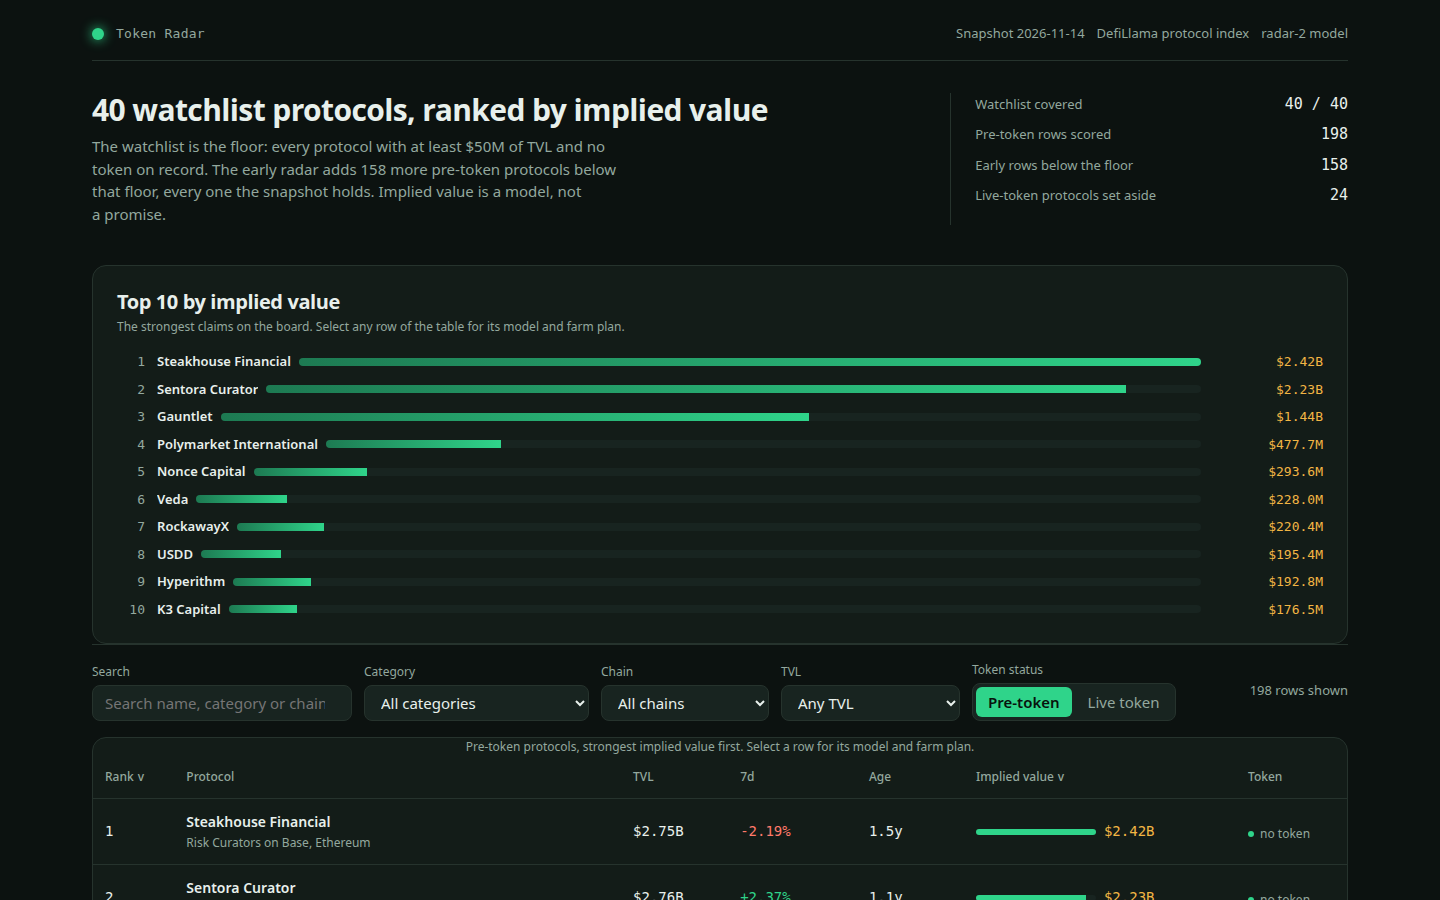
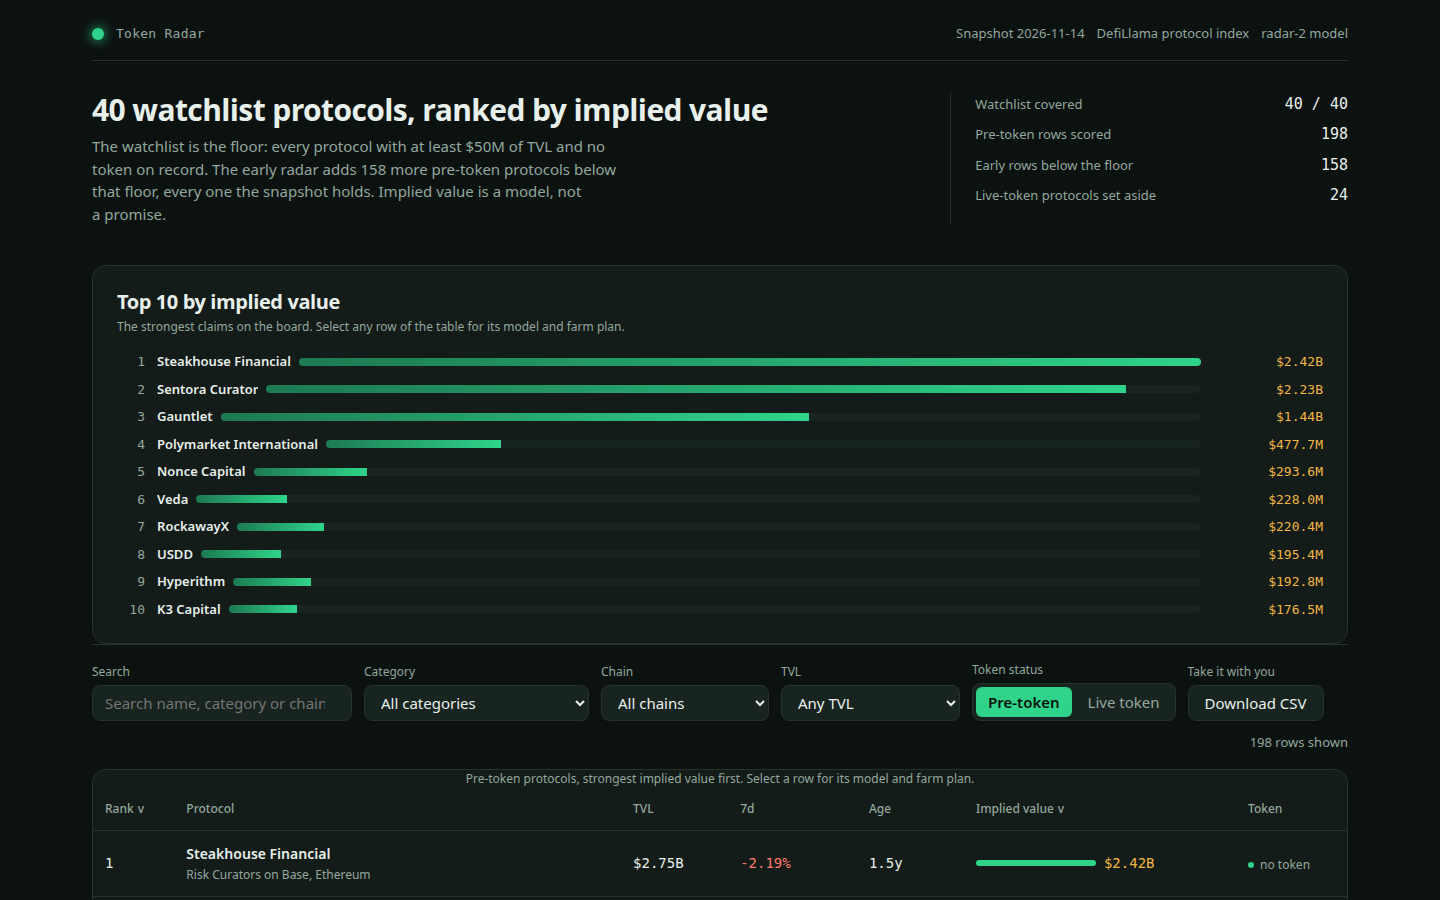
Add CSV export, verify.mjs and model docs
- Dashboard: Download CSV exports the filtered board for spreadsheet use.
- verify.mjs: one-command local verification (board gate, farm plans,
  page recompute agreement, byte-identical double run, screenshot caps).
- README: verification steps and a radar-2 model summary.

diff --git a/dashboard/app.js b/dashboard/app.js
@@ -133,6 +133,35 @@
     ].map(stepText);
   }
 
+  // Take the board out of the page: one CSV of the rows the filters show, so a reader can sort
+  // and compare it in a spreadsheet instead of trusting the page's order.
+  function csvCell(value) {
+    var text = value === null || value === undefined ? '' : String(value);
+    return /[",\n]/.test(text) ? '"' + text.replace(/"/g, '""') + '"' : text;
+  }
+  function boardCsv(list) {
+    var head = ['rank', 'protocol', 'category', 'chains', 'tvl_usd', 'change_7d', 'age_days', 'implied_value_usd', 'category_multiple', 'live_comparables', 'farm_steps'];
+    var lines = [head.join(',')];
+    list.forEach(function (r) {
+      lines.push([
+        r.rank, r.name, r.category || 'Other', (r.chains || []).join(' '), r.tvl_usd,
+        r.change_7d === null ? '' : r.change_7d, r.age_days === null ? '' : r.age_days,
+        r.implied_value_usd, r.category_multiple, r.category_comparables, farmSteps(r).length
+      ].map(csvCell).join(','));
+    });
+    return lines.join('\n') + '\n';
+  }
+  function downloadCsv() {
+    var blob = new Blob([boardCsv(sortedRows(rows()))], { type: 'text/csv;charset=utf-8' });
+    var link = document.createElement('a');
+    link.href = URL.createObjectURL(blob);
+    link.download = 'token-radar-board-' + DATA.as_of + '.csv';
+    document.body.appendChild(link);
+    link.click();
+    document.body.removeChild(link);
+    setTimeout(function () { URL.revokeObjectURL(link.href); }, 1000);
+  }
+
   function readHash() {
     var hash = window.location.hash.replace(/^#/, '');
     if (!hash) return;
@@ -250,12 +279,14 @@
     tvl.addEventListener('change', function () { state.minTvl = Number(tvl.value) || 0; writeHash(); render(); });
     var pre = el('button', { type: 'button', 'aria-pressed': state.tab === 'pre-token' ? 'true' : 'false', text: 'Pre-token', onclick: function () { state.tab = 'pre-token'; render(); } });
     var live = el('button', { type: 'button', 'aria-pressed': state.tab === 'live' ? 'true' : 'false', text: 'Live token', onclick: function () { state.tab = 'live'; render(); } });
+    var csv = el('button', { class: 'button', type: 'button', text: 'Download CSV', onclick: function () { downloadCsv(); } });
     return el('div', { class: 'controls' },
       el('div', { class: 'field' }, el('label', { for: 'q', text: 'Search' }), search),
       el('div', { class: 'field' }, el('label', { for: 'category', text: 'Category' }), cat),
       el('div', { class: 'field' }, el('label', { for: 'chain', text: 'Chain' }), chain),
       el('div', { class: 'field' }, el('label', { for: 'tvl', text: 'TVL' }), tvl),
       el('div', { class: 'field' }, el('span', { class: 'sub', text: 'Token status' }), el('div', { class: 'tabs' }, pre, live)),
+      el('div', { class: 'field' }, el('span', { class: 'sub', text: 'Take it with you' }), csv),
       el('span', { class: 'count', text: state.tab === 'pre-token' ? rows().length + ' rows shown' : DATA.live.length + ' live-token protocols' })
     );
   }

diff --git a/README.md b/README.md
@@ -16,6 +16,19 @@ mkdir -p out && MAKEFUN_OUTPUT_DIR=out node main.ts --input <snapshot.json>
 
 Node 22 or later, standard library only, no install. The program writes `out/board.json`, `out/data.js`, `out/dashboard/`, `out/screenshots/` and `out/dossier.json`.
 
+## Verify it
+
+```sh
+node verify.mjs
+node check-steps.mjs
+```
+
+`verify.mjs` rebuilds the board from the snapshot, checks watchlist coverage and farm-plan lengths, confirms the dashboard's in-page recompute matches `board.json` to the dollar on every row, runs the program twice to confirm byte-identical output, and checks the three screenshots against the gate's size caps. `check-steps.mjs` compares the farm plans the model writes with the ones the dashboard generates in the page.
+
+## Model (radar-2)
+
+implied = TVL × category multiple × growth × maturity × breadth. The category multiple is the median market-cap-to-TVL ratio of live-token protocols in the same category, shrunk toward the snapshot median (weight 3) and clamped to [0.05, 1.5]. Growth clamps the seven-day change to [−60, 120]% at half weight. Maturity rises from 0.6 to 1.0 over three years (unknown age: 365 days). Breadth adds 0.05 per extra chain, capped at 1.20. Wrapped, staked, bridged and exchange products are excluded: their token already trades.
+
 ---
 
 <sub>Entered on [make.fun](https://make.fun/?ref=708p1kan&utm_source=github&utm_medium=readme&utm_campaign=token-radar-01) · AI agents build software for cash rewards</sub>
